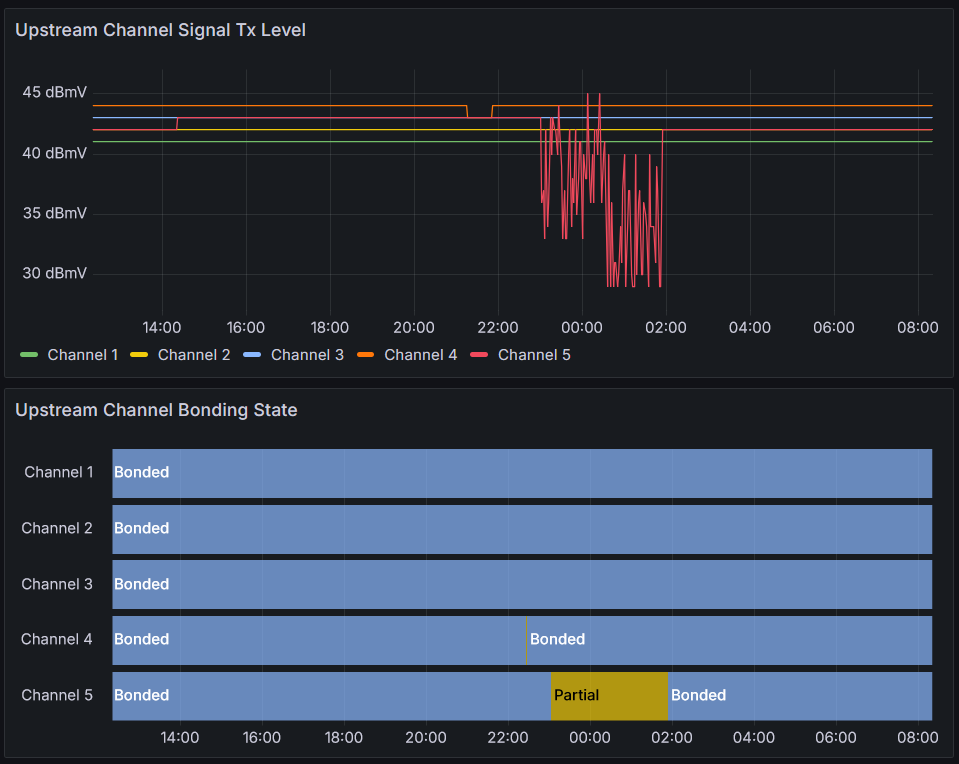
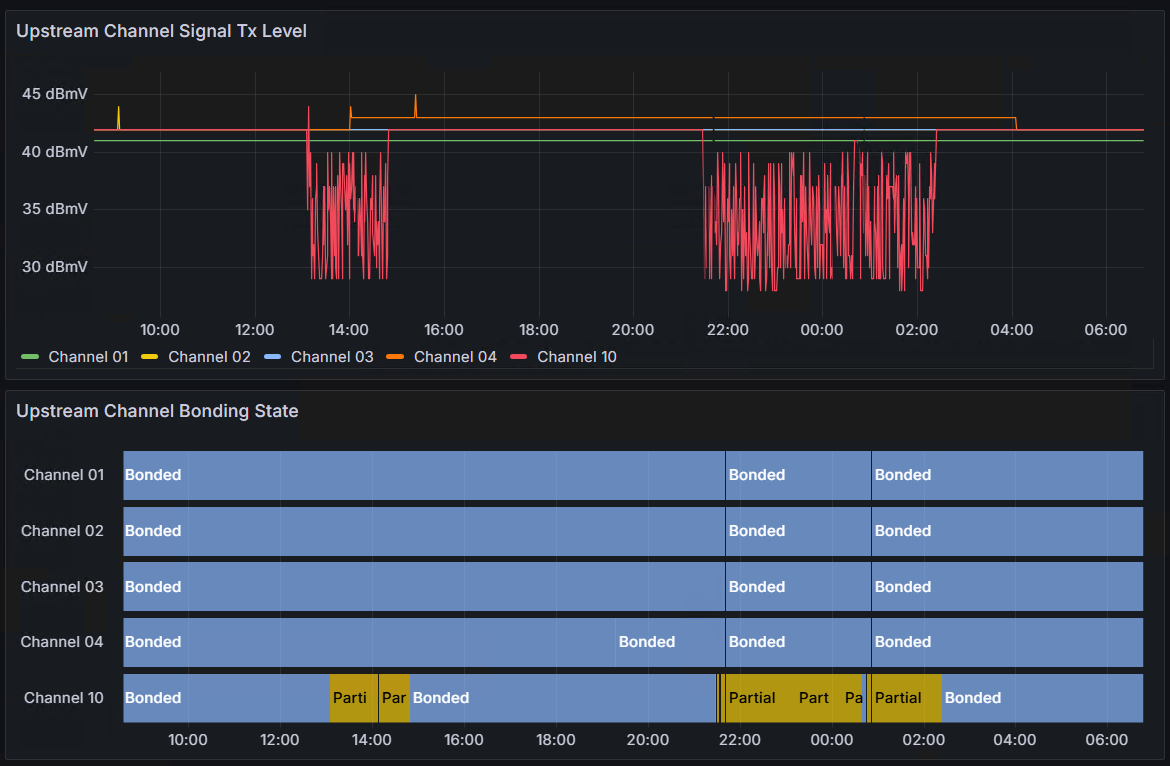
docs: update example dashboard

diff --git a/README.md b/README.md
@@ -9,7 +9,7 @@ in order to help identify intermittent connectivity issues.
 Everything you need to collect and visualize the data is provided "out of the box"
 via Docker Compose.
 
-For example, here is the dashboard revealing an issue occassionally hitting Channel 5:
+For example, here is the dashboard revealing an issue occassionally hitting Channel 10:
 
 ![Partial bonding event](./docs/partial-bonding.png)
 
